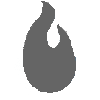
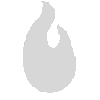
Pause menu

diff --git a/SoulKeeper/core/src/com/mygdx/game/Screens/PlayScreen.java b/SoulKeeper/core/src/com/mygdx/game/Screens/PlayScreen.java
@@ -9,6 +9,7 @@ package com.mygdx.game.Screens;
 import com.badlogic.gdx.Gdx;
 import com.badlogic.gdx.Input;
 import com.badlogic.gdx.Screen;
+import com.badlogic.gdx.graphics.Color;
 import com.badlogic.gdx.graphics.GL20;
 import com.badlogic.gdx.graphics.OrthographicCamera;
 import com.badlogic.gdx.graphics.g2d.GlyphLayout;
@@ -17,6 +18,7 @@ import com.badlogic.gdx.maps.tiled.TiledMap;
 import com.badlogic.gdx.maps.tiled.TmxMapLoader;
 import com.badlogic.gdx.maps.tiled.renderers.OrthogonalTiledMapRenderer;
 import com.badlogic.gdx.math.Vector2;
+import com.badlogic.gdx.math.Vector3;
 import com.badlogic.gdx.physics.box2d.Box2DDebugRenderer;
 import com.badlogic.gdx.physics.box2d.World;
 import com.badlogic.gdx.utils.TimeUtils;
@@ -49,10 +51,19 @@ public class PlayScreen implements Screen{
     public SoulKeeper soulKeeper;
     private B2WorldCreator creator;
     private TextureAtlas atlas;
+    private State state = State.RUN;
     public boolean up;
     public boolean down;
     public boolean right;
     public boolean left;
+    private long waitTime;
+
+    public enum State {
+        PAUSE,
+        RUN,
+        RESUME,
+    }
+
     public PlayScreen(MyGdxGame game){
         atlas = new TextureAtlas("Mario_and_Enemies.pack");
         this.game = game;
@@ -115,46 +126,10 @@ public class PlayScreen implements Screen{
             down = false;
     }
     
-    public void handleInput(float dt){
-        if(Gdx.input.isKeyJustPressed(Input.Keys.UP))
-        {
-            up = true;
-            right = false;
-            left = false;       
-            down = false;   
-        }
-        if(Gdx.input.isKeyJustPressed(Input.Keys.DOWN))
-        {
-            down = true;
-            up = false;
-            right = false;
-            left = false;   
-        }
-        if(Gdx.input.isKeyPressed(Input.Keys.RIGHT))
-        {
-            up = false;
-            right = true;
-            left = false;      
-            down = false;
-        }
-        if(Gdx.input.isKeyPressed(Input.Keys.LEFT))
-        {
-            up = false;
-            right = false;
-            left = true;      
-           down = false;
-        }
-        if(Gdx.input.isKeyPressed(Input.Keys.X))
-        {
-            soulKeeper.hit();
-        }
-    }
-    
     public void update(float dt) {
         world.step(1/60f, 6, 2);
         soulKeeper.update(dt);
         game.setLife(soulKeeper.getLife());
-        Gdx.app.log("Life", String.valueOf(game.vida));
         for(Enemy enemy: creator.getDemons())
         {
             enemy.update(dt);
@@ -174,7 +149,11 @@ public class PlayScreen implements Screen{
     {
         return atlas;
     }
-    
+
+    public void setGameState(State s){
+        this.state = s;
+    }
+
     @Override
     public void show() {
        
@@ -182,26 +161,94 @@ public class PlayScreen implements Screen{
 
     @Override
     public void render(float delta) {
-        update(delta);
-        Gdx.gl.glClearColor(0,0,0,1);
-        Gdx.gl.glClear(GL20.GL_COLOR_BUFFER_BIT);
-        renderer.render();
-        b2dr.render(world, camera.combined);
-        game.batch.setProjectionMatrix(camera.combined);
-        game.batch.begin();
-        soulKeeper.draw(game.batch);
-        for(Enemy enemy: creator.getDemons()) {
-            enemy.draw(game.batch);
+
+        switch (state) {
+            case RUN:
+                update(delta);
+                Gdx.gl.glClearColor(0,0,0,1);
+                Gdx.gl.glClear(GL20.GL_COLOR_BUFFER_BIT);
+                renderer.render();
+                //b2dr.render(world, camera.combined);
+                game.batch.setProjectionMatrix(camera.combined);
+                game.batch.begin();
+                soulKeeper.draw(game.batch);
+                for(Enemy enemy: creator.getDemons()) {
+                    enemy.draw(game.batch);
+                }
+                game.batch.end();
+                game.batch.setProjectionMatrix(hud.stage.getCamera().combined);
+                hud.stage.draw();
+                /*if(Gdx.input.isTouched()) {
+                    Dialog = new Dialog(game, this, "The poor children had now nowhere to play. They tried to play on the road, but the" +
+                            " road was very dusty and full of hard stones, and they did not like it.", TimeUtils.nanoTime());
+                }*/
+                game.batch.setProjectionMatrix(Dialog.stage.getCamera().combined);
+                Dialog.stage.draw();
+                if(Gdx.input.isTouched()){
+                    Vector3 touchPos = new Vector3();
+                    touchPos.set(Gdx.input.getX()*100, Gdx.input.getY(), 0);
+                    camera.unproject(touchPos);
+                    if(touchPos.x > game.width*2/5 && touchPos.x < game.width*3/5 &&
+                            touchPos.y*100 > game.height-100 && touchPos.y*100 < game.height)
+                    setGameState(State.PAUSE);
+                    waitTime=TimeUtils.nanoTime();
+                }
+                break;
+            case PAUSE:
+                game.textCenter(game.height*4/5,"The game is on pause",game.font);
+                int button2Y = game.height*2/5;
+                int button1Y = game.height/5;
+                game.button(button2Y,"Resume", Color.FIREBRICK);
+                game.button(button1Y,"Main Menu", Color.FIREBRICK);
+                if(Gdx.input.isTouched()&&TimeUtils.nanoTime()-waitTime>500000000){
+                    Vector3 touchPos = new Vector3();
+                    touchPos.set(Gdx.input.getX()*100, Gdx.input.getY(), 0);
+                    camera.unproject(touchPos);
+                    System.out.println(touchPos.x + " " + touchPos.y);
+                    if(touchPos.x > game.width/5 && touchPos.x < game.width*4/5 &&
+                            touchPos.y*100 > button2Y && touchPos.y*100 < button2Y+game.height/8) {
+                        setGameState(State.RESUME);
+                        waitTime=TimeUtils.nanoTime();
+                    }
+                    if(touchPos.x > game.width/5 && touchPos.x < game.width*4/5 &&
+                            touchPos.y*100 > button1Y && touchPos.y*100 < button1Y+game.height/8) {
+                        game.setScreen(new mainMenuScreen(game));
+                        dispose();
+                    }
+                }
+                break;
+            case RESUME:
+                update(delta);
+                Gdx.gl.glClearColor(0,0,0,1);
+                Gdx.gl.glClear(GL20.GL_COLOR_BUFFER_BIT);
+                renderer.render();
+                //b2dr.render(world, camera.combined);
+                game.batch.setProjectionMatrix(camera.combined);
+                game.batch.begin();
+                soulKeeper.draw(game.batch);
+                for(Enemy enemy: creator.getDemons()) {
+                    enemy.draw(game.batch);
+                }
+                game.batch.end();
+                game.batch.setProjectionMatrix(hud.stage.getCamera().combined);
+                hud.stage.draw();
+                /*if(Gdx.input.isTouched()) {
+                    Dialog = new Dialog(game, this, "The poor children had now nowhere to play. They tried to play on the road, but the" +
+                            " road was very dusty and full of hard stones, and they did not like it.", TimeUtils.nanoTime());
+                }*/
+                game.batch.setProjectionMatrix(Dialog.stage.getCamera().combined);
+                Dialog.stage.draw();
+                if(Gdx.input.isTouched()){
+                    Vector3 touchPos3 = new Vector3();
+                    touchPos3.set(Gdx.input.getX()*100, Gdx.input.getY(), 0);
+                    camera.unproject(touchPos3);
+                    if(touchPos3.x > game.width*2/5 && touchPos3.x < game.width*3/5 &&
+                            touchPos3.y*100 > game.height-100 && touchPos3.y*100 < game.height)
+                        setGameState(State.PAUSE);
+                    waitTime=TimeUtils.nanoTime();
+                }
+                break;
         }
-        game.batch.end();
-        game.batch.setProjectionMatrix(hud.stage.getCamera().combined);
-        hud.stage.draw();
-        if(Gdx.input.isTouched()) {
-            Dialog = new Dialog(game, this, "The poor children had now nowhere to play. They tried to play on the road, but the" +
-                    " road was very dusty and full of hard stones, and they did not like it.", TimeUtils.nanoTime());
-        }
-        game.batch.setProjectionMatrix(Dialog.stage.getCamera().combined);
-        Dialog.stage.draw();
     }
 
     @Override
@@ -216,20 +263,20 @@ public class PlayScreen implements Screen{
     public World getWorld(){
         return world;
     }
-    
+
     @Override
     public void pause() {
-        
+        this.state = State.PAUSE;
     }
 
     @Override
     public void resume() {
-        
+        this.state = State.RESUME;
     }
 
     @Override
     public void hide() {
-        
+
     }
 
     @Override

diff --git a/SoulKeeper/core/src/com/mygdx/game/Scenes/Hud.java b/SoulKeeper/core/src/com/mygdx/game/Scenes/Hud.java
@@ -32,6 +32,7 @@ import com.mygdx.game.Sprites.SoulKeeper;
 public class Hud implements Disposable{
 
 
+
     private MyGdxGame game;
     public Stage stage;
     private Viewport view;
@@ -39,10 +40,12 @@ public class Hud implements Disposable{
     private Texture notAlma;
     private Texture lifeBg;
     private Texture life;
+    private Texture pausa;
     private Image  almaImg;
     private Image notAlmaImg;
     private Image lifeBgImg;
     private Image lifeImg;
+    private Image pausaImg;
     private PlayScreen screen1;
     public Hud(final MyGdxGame game, PlayScreen screen){
         int i=0;
@@ -53,6 +56,7 @@ public class Hud implements Disposable{
         notAlma = new Texture(Gdx.files.internal("images/almaShadow.png"));
         life = new Texture(Gdx.files.internal("images/life.png"));
         lifeBg = new Texture(Gdx.files.internal("images/lifebg.png"));
+        pausa = new Texture(Gdx.files.internal("pausa.png"));
 
         while(i<game.almas) {
             almaImg = new Image(alma);
@@ -74,6 +78,10 @@ public class Hud implements Disposable{
         lifeImg.setPosition(game.width - 280,game.height - 80);
         lifeImg.setScaleX(screen1.soulKeeper.getLife());
         stage.addActor(lifeImg);
+
+        pausaImg=new Image(pausa);
+        pausaImg.setPosition(game.width/2-50, game.height-100);
+        stage.addActor(pausaImg);
     }
 
     @Override

diff --git a/SoulKeeper/core/src/com/mygdx/game/Sprites/Demons.java b/SoulKeeper/core/src/com/mygdx/game/Sprites/Demons.java
@@ -59,7 +59,6 @@ public class Demons extends Enemy{
     @Override
     public void update(float dt)
     {
-        Gdx.app.log("L", Float.toString(player1.b2body.getLinearVelocity().x));
         stateTime += dt;
         if(setToDestroy && !destroyed)
         {
